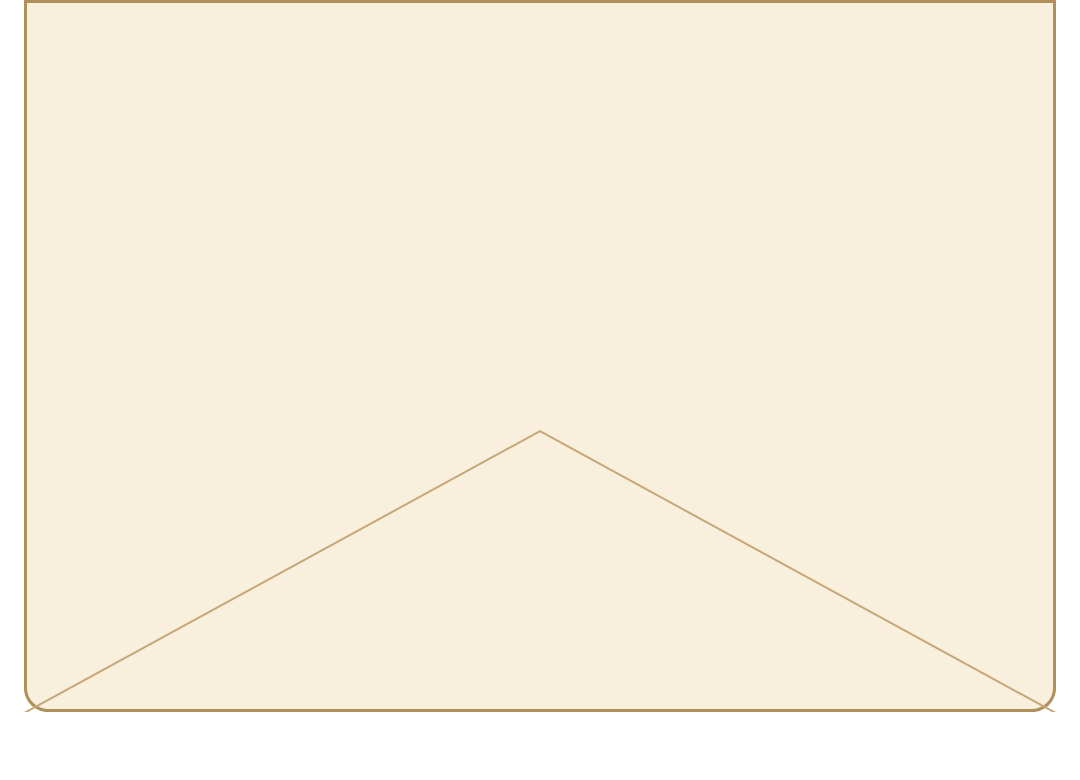
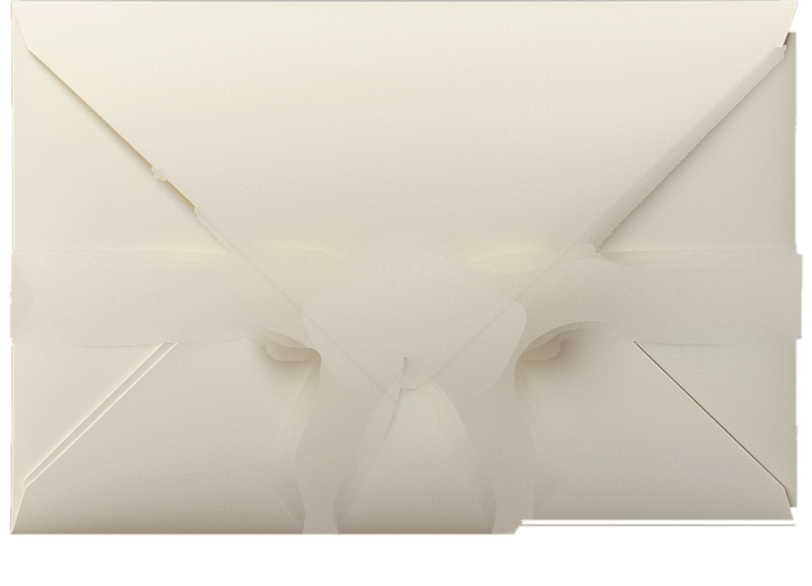
Cut the cover envelope out of the photograph
The drawn and Canva-shape envelopes never looked real, so the layers are now
cut from assets/envelope-reference.png: the body with the ribbon painted out,
the flap along its own fold lines, the inside it reveals, the ribbon band and
the bow with its wax seal. They share one canvas with the envelope's top edge
at y=0, so they restack into the original photograph and the flap hinges where
the real fold is.

- paint the ribbon out with a multi-radius push-pull fill so the repair matches
  the paper's local tone, and draw the covered fold lines back in
- carry the band's stripe across the gap the bow left, so band and bow separate
  cleanly
- warm the layers slightly to sit in the page's ivory, and soften the bow's
  loosen now that it is real satin
- names and date move below the envelope: the photograph has no clear space on
  its face

Claude-Session: https://claude.ai/code/session_01PPB9xRSTPdL23zxJbtrp2D

diff --git a/index.html b/index.html
@@ -215,18 +215,18 @@ p{margin:0 0 14px}
   transition:transform .75s cubic-bezier(.36,.02,.2,1),opacity .5s ease}
 .cover.zoom .has-art .ea-flap{opacity:0}
 .cover.unsealed .has-art .ea-flap{transform:perspective(900px) rotateX(-166deg)}
-.has-art .ea-body{filter:drop-shadow(0 10px 14px rgba(47,70,50,.26))}
-.ea-mouth{clip-path:polygon(2.2% 0,50% 35.4%,97.8% 0);
-  background:linear-gradient(#b3996d,#e4d6b6 55%,#f6ecd9)}
-.has-art .ea-flap{filter:drop-shadow(0 4px 6px rgba(47,70,50,.16))}
+.has-art .ea-body{filter:drop-shadow(0 10px 14px rgba(47,70,50,.26)) sepia(.1) saturate(1.06)}
+.has-art .ea-mouth{filter:sepia(.1) saturate(1.06)}
+.ea-mouth{background:url("assets/env-mouth.png") center/100% 100% no-repeat}
+.has-art .ea-flap{filter:drop-shadow(0 4px 6px rgba(47,70,50,.16)) sepia(.1) saturate(1.06)}
 .has-art .ea-bow{filter:drop-shadow(0 4px 5px rgba(47,70,50,.2))}
-.env.has-art .env-text{top:41%}
+.env.has-art .env-text{top:calc(100% + 26px);left:0;right:0}
 .cover.opening .has-art .ea-bow{animation:bowLoosen .8s cubic-bezier(.4,0,.3,1) forwards}
 .cover.drop .has-art .ea-ribbon{animation:ribbonFall 1.15s cubic-bezier(.5,0,.85,.45) forwards}
 @keyframes bowLoosen{
   0%{transform:rotate(0deg) scale(1)}
-  35%{transform:rotate(-4deg) translateY(1.5%) scale(.99)}
-  100%{transform:rotate(-9deg) translateY(7%) scale(.9);opacity:.9}
+  40%{transform:rotate(-1.6deg) translateY(.6%) scale(.997)}
+  100%{transform:rotate(-3.4deg) translateY(2.2%) scale(.985)}
 }
 .env-flap-g{transform-box:fill-box;transform-origin:50% 0;
   transition:transform .75s cubic-bezier(.36,.02,.2,1)}

diff --git a/assets/README.md b/assets/README.md
@@ -35,35 +35,25 @@ Share → Download → MP4.
 Any size, portrait (9:16 works best). Used full-bleed behind the envelope; the page's own
 floral sheet is used when this file is missing.
 
-## `env-body.png`, `env-flap.png`, `env-band.png`, `env-bow.png` — the envelope
+## The envelope layers — cut from the photograph
 
-All four must be present, or the drawn envelope is used instead. They are stacked on top of
-each other at the same size, so they only line up if every file is the same **1080 × 780**
-canvas with its piece in its final position and transparent everywhere else.
+`envelope-reference.png` is the photograph everything else here comes from: an ivory envelope
+tied with a gold satin ribbon. It is not loaded by the page; it is the source the five layers
+were cut out of, so the cover animates a real envelope rather than a drawing.
 
-A ready-made Canva design with one page per layer:
-**https://www.canva.com/d/dr-FJluE_2WrDZH**
+| File | What it holds |
+|---|---|
+| `env-body.png` | the envelope with the ribbon painted out |
+| `env-flap.png` | the top flap, cut along its own fold lines — it hinges on the canvas's top edge |
+| `env-mouth.png` | the inside, shaded from the fold down; revealed as the flap lifts |
+| `env-band.png` | the ribbon band, its stripe carried across where the bow sat |
+| `env-bow.png` | the bow, its knot, the wax seal and the tails |
 
-| Canva page | Export as | Contains |
-|---|---|---|
-| 1 | — | reference image only, ignore it (or delete it) |
-| 2 `Preview (all layers)` | — | all four layers together, to check the look |
-| 3 `env-body` | `env-body.png` | envelope front and fold lines |
-| 4 `env-flap` | `env-flap.png` | the closed flap and the wax seal |
-| 5 `env-band` | `env-band.png` | the ribbon band |
-| 6 `env-bow` | `env-bow.png` | the bow, its knot and tails |
+All five share one **812 × 586** canvas (a 1082 × 781 crop of the photograph, scaled down) with
+the envelope's top edge at y = 0, so they stack into the original picture exactly. The band sits
+at 45–57% of the canvas height and the flap's tip at 69%, which is why the couple's names sit
+below the envelope rather than on it.
 
-Export: Share → Download → **PNG**, tick **Transparent background**, select pages 3–6, then
-rename each file to the name in the table.
-
-`env-preview.png` and `envelope-reference.png` are kept here for reference only — the page
-never loads them.
-
-Where things sit on the canvas, if you restyle or redraw it:
-
-- the flap folds along the **very top edge** of the canvas — the page hinges it there, so the
-  flap must start at y = 0
-- the names, "the wedding of" and the date are drawn by the page over the artwork, between
-  **45% and 79%** of the canvas height — keep that band of the envelope empty
-- the flap tip sits at about 35%, the ribbon band between 81% and 90%, and the bow's tails may
-  run to the bottom edge but not past it
+Replacing them: keep one shared canvas, the same 1.385 : 1 shape, the fold along the very top
+edge, and transparency everywhere else. Any layer missing and the page falls back to the
+envelope it draws itself; `cover.mp4` still overrides all of it when present.

diff --git a/README.md b/README.md
@@ -13,11 +13,10 @@ and reveal animations only start once that flight ends, so nothing plays behind 
 A film of the envelope takes over the whole cover when `assets/cover.mp4` is present: it plays
 full screen on tap and the invitation dissolves in as it ends.
 
-Without it, the envelope and the ribbon are drawn by the page, and are replaced by real artwork as soon as
-`assets/env-body.png`, `env-flap.png`, `env-band.png` and `env-bow.png` are all present — see
-`assets/README.md` for how to export those four layers. The backdrop behind the envelope works the
-same way with `assets/cover.jpg`. No code change is needed for either swap. Reduced-motion visitors
-get the invitation immediately on tap.
+Without it, the cover animates a real photographed envelope: `assets/env-*.png` are layers cut
+out of `assets/envelope-reference.png` — body, flap, inside, ribbon band and bow — so the bow
+loosens, the ribbon slides off and falls, the flap lifts and the camera flies into the opening.
+If those layers are missing the page draws its own envelope instead. See `assets/README.md`.
 
 Edit all details in the `CONFIG` object near the bottom of `index.html`.
 
